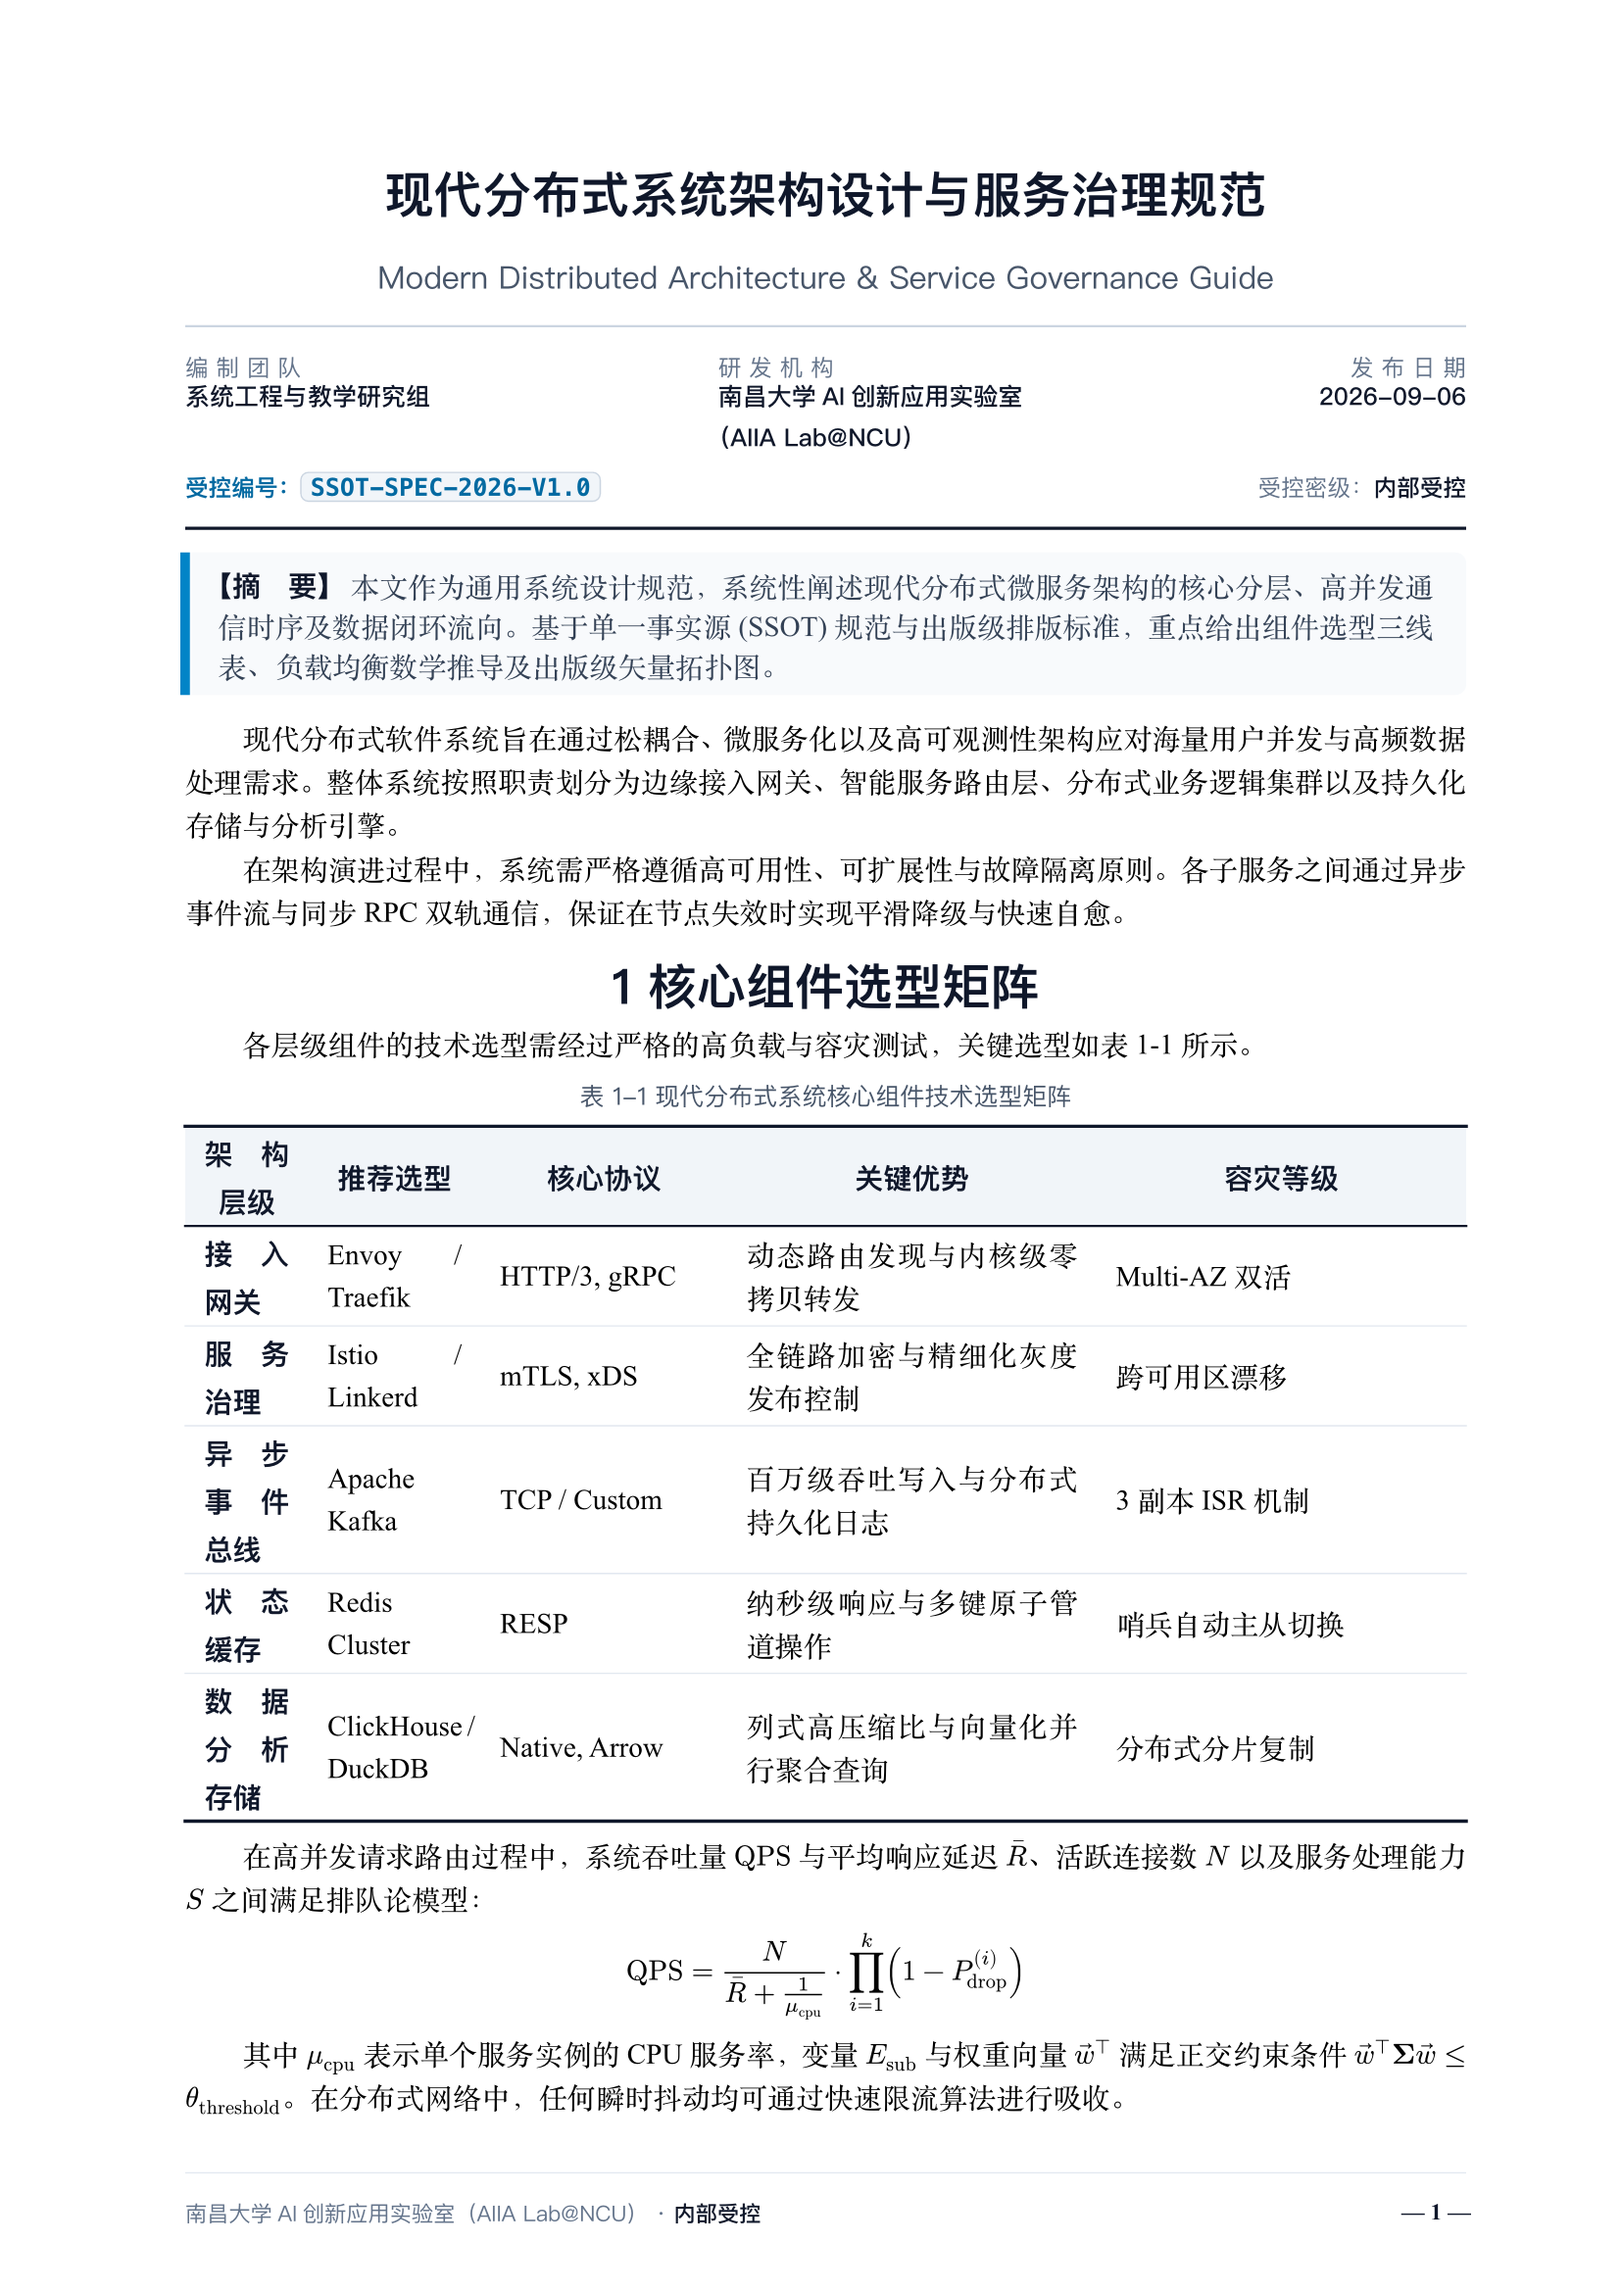
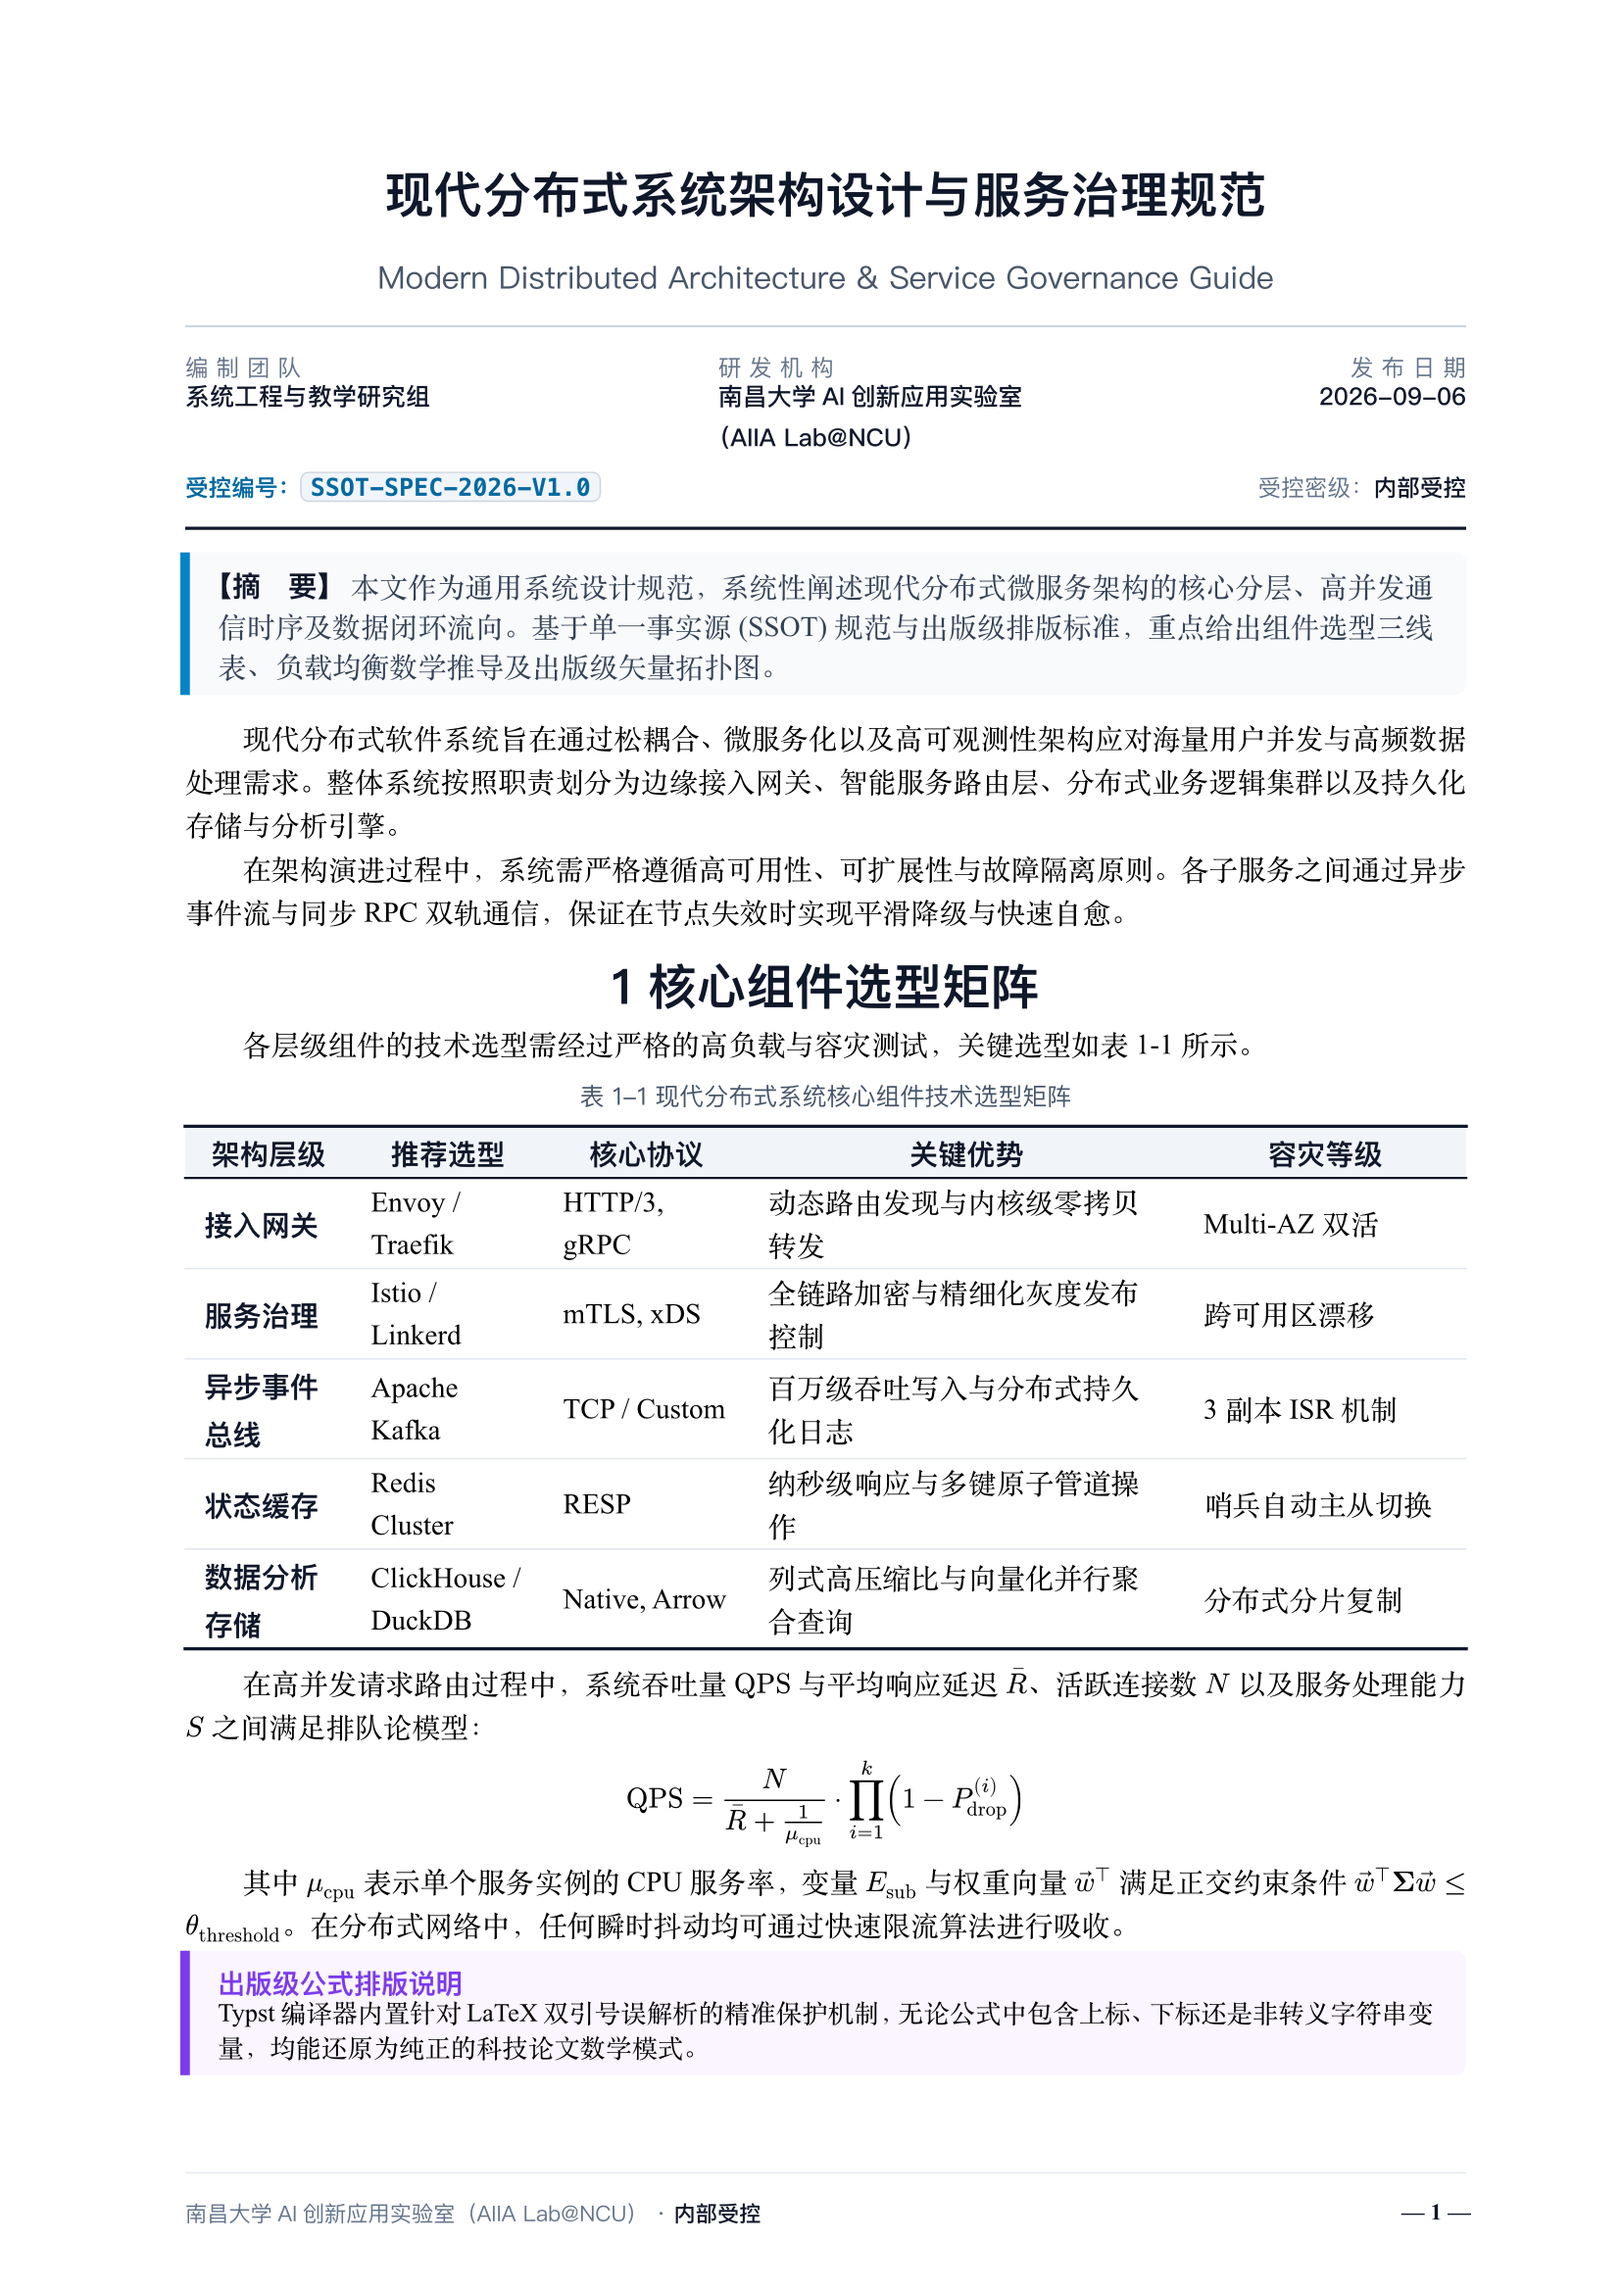
fix(table): disable justification in table cells and optimize column distribution

diff --git a/skills/typst/scripts/ssot_to_typst.py b/skills/typst/scripts/ssot_to_typst.py
@@ -341,12 +341,13 @@ def parse_markdown_table_to_typst(table_text: str) -> str:
 
     typ_table = [
         "#align(center)[#block(width: 100%)[",
+        "  #show table.cell: set par(justify: false, first-line-indent: (amount: 0em, all: true))",
         f"  #table(",
         f"    columns: {col_spec},",
         "    fill: (col, row) => if row == 0 { rgb(\"#f1f5f9\") } else { none },",
         stroke_code,
-        "    inset: (x: 7pt, y: 7pt),",
-        "    align: (col, row) => if row == 0 { center + horizon } else { left + horizon },"
+        "    inset: (x: 7pt, y: 5pt),",
+        "    align: (col, row) => if row == 0 { center + horizon } else { left + horizon },",
     ]
 
     for row_idx, row in enumerate(content_rows):
